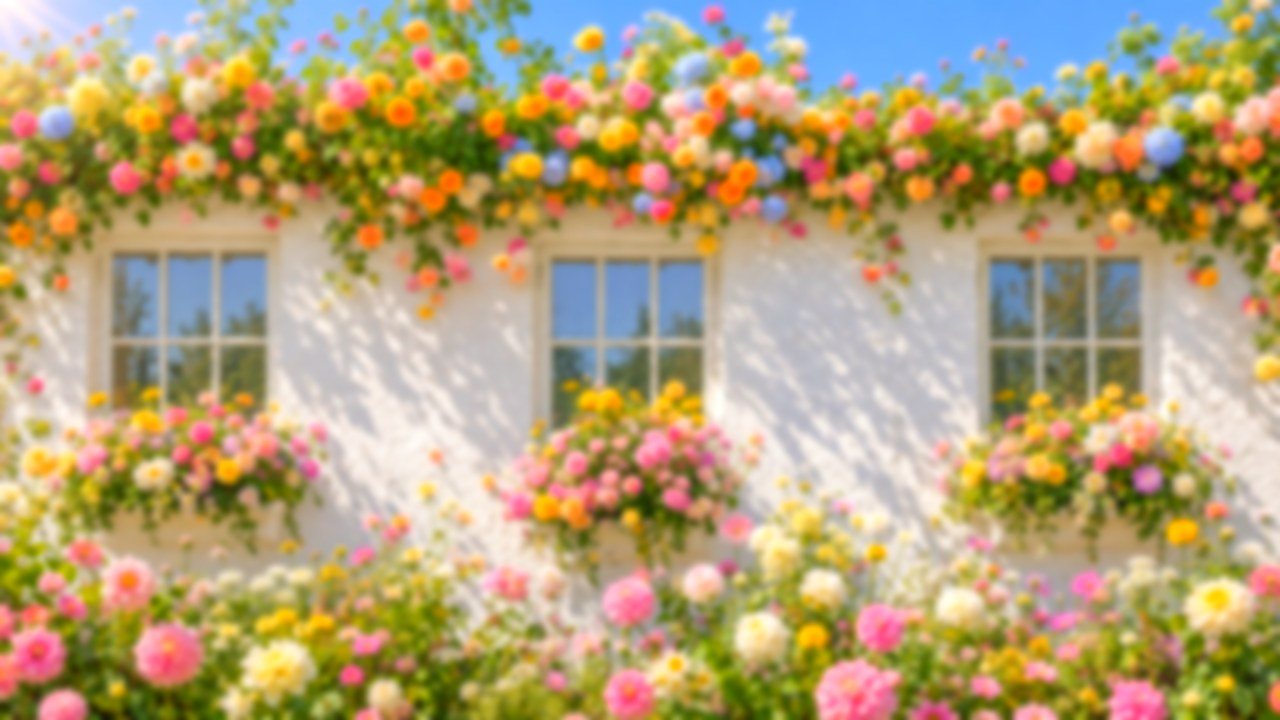
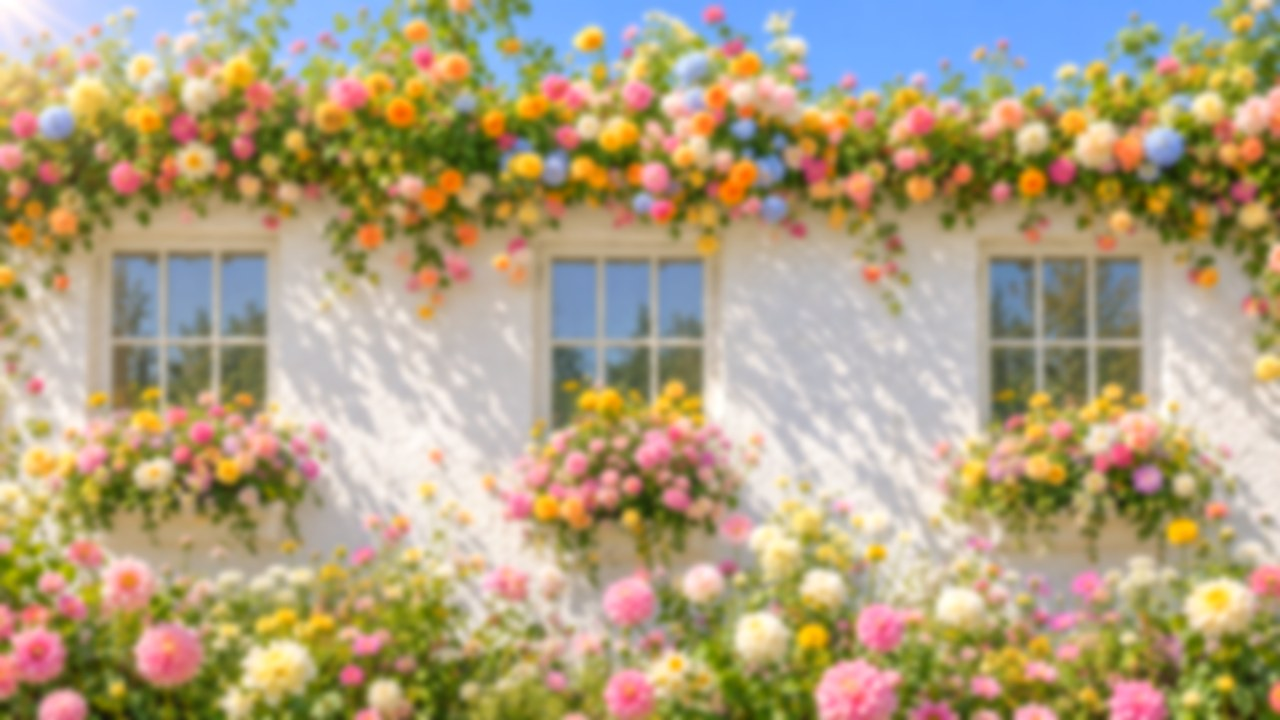
Screensaver saturation 130%

diff --git a/src/tvui/static/index.html b/src/tvui/static/index.html
@@ -79,7 +79,7 @@
     background-color: #f6f3ee; background-image: url(/saver.jpg); background-repeat: no-repeat;
     background-position: center; -webkit-background-size: cover; background-size: cover; }
   #saver.on { display: block; }
-  /* The photo behind the text is blurred 5px, saturate 160%, brightness 104% across the whole
+  /* The photo behind the text is blurred 5px, saturate 130%, brightness 104% across the whole
      screen (baked into saver.jpg: backdrop-filter isn't supported on this TV). */
   #saver .wall, #saver .right { position: absolute; width: 16rem; text-align: center;
     text-shadow: 0 0 .9rem rgba(255,255,255,.9), 0 0 .25rem rgba(255,255,255,.8); }
